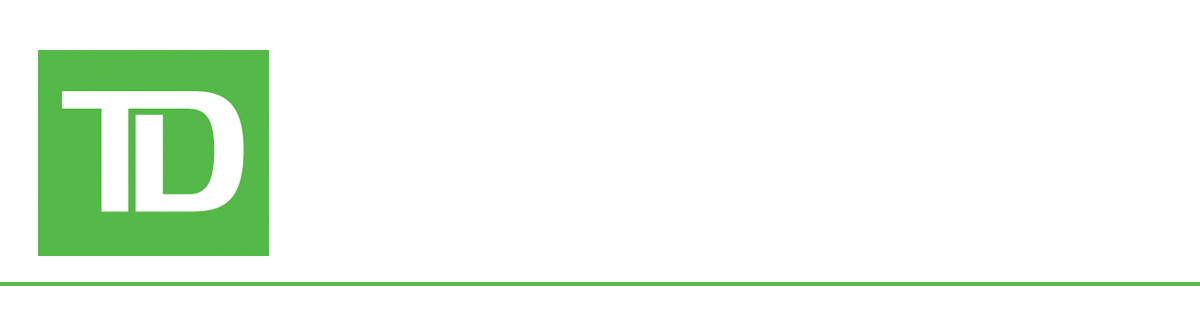
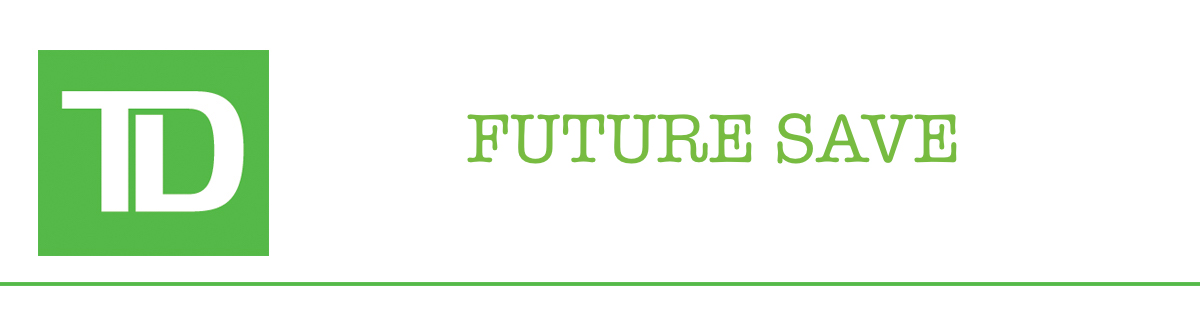
added the title of app

Changed region(s): [[0.37, 0.3385, 0.8017, 0.5231]]

diff --git a/Bucket14/src/main/resources/static/index.css b/Bucket14/src/main/resources/static/index.css
@@ -5,6 +5,9 @@ body{
 html{
 
 }
+#tdfuturesave{
+	color: white;
+}
 
 #home_page_hidden{
 	background-image: linear-gradient(to bottom, rgba(255,255,255,0.7) 0%,rgba(255,255,255,0.7) 100%), url("https://images.unsplash.com/photo-1486406146926-c627a92ad1ab?ixlib=rb-0.3.5&s=7b511da6b306980d47f982c8a1064d74&auto=format&fit=crop&w=2850&q=80");
@@ -12,7 +15,7 @@ html{
     background-size: auto;
 	font-family: 'Work Sans', sans-serif;
 	font-size: 25px;
-	height: 100vh;
+	height:100%;
 }
 
 #loginDiv{

diff --git a/Bucket14/src/main/resources/static/index.html b/Bucket14/src/main/resources/static/index.html
@@ -31,6 +31,7 @@
 <body>
 
 	<div id="loginDiv">
+		<h2 id="tdfuturesave">TD Future Save</h2>
 		<span class= "textA">User ID: </span>
 		<input id="login" /> 
 		<button onclick="login()" class="btn btn-info btn-lg">sign in</button>
